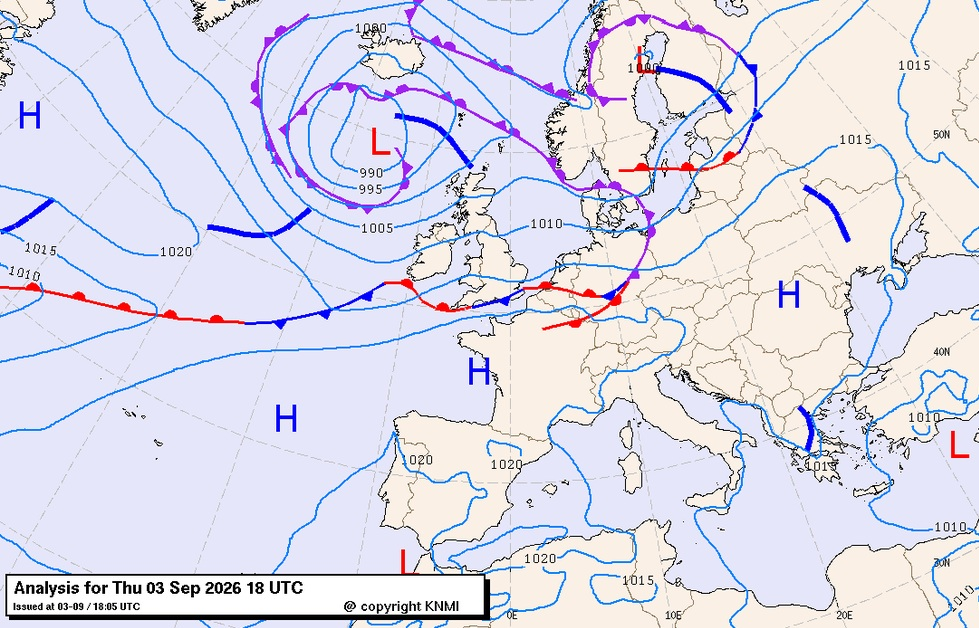
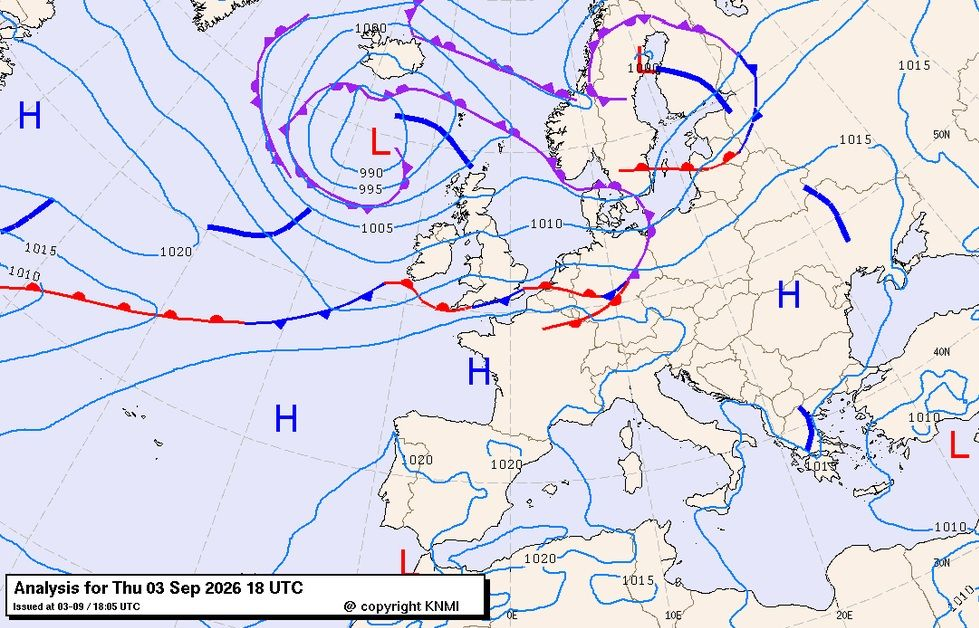
Exam image loading improvements

diff --git a/templates/exam.html b/templates/exam.html
@@ -47,7 +47,7 @@
 
                             {% if question.image_url %}
                                 <div class="question-image">
-                                    <img src="{{ question.image_url }}" alt="{{ t('Vraagafbeelding') }}" style="max-width: 100%; height: auto; margin: 10px 0;">
+                                    <img src="{{ question.image_url }}" loading="lazy" decoding="async" alt="{{ t('Vraagafbeelding') }}" style="max-width: 100%; height: auto; margin: 10px 0;">
                                 </div>
                             {% endif %}
 

diff --git a/templates/result.html b/templates/result.html
@@ -53,7 +53,7 @@
 
                 {% if result.image_url %}
                     <div class="result-image">
-                        <img src="{{ result.image_url }}" alt="{{ t('Vraagafbeelding') }}" style="max-width: 100%; height: auto; margin: 10px 0;">
+                        <img src="{{ result.image_url }}" loading="lazy" decoding="async" alt="{{ t('Vraagafbeelding') }}" style="max-width: 100%; height: auto; margin: 10px 0;">
                     </div>
                 {% endif %}
 

diff --git a/app.py b/app.py
@@ -1081,16 +1081,16 @@ def get_question_image_url(image_link):
     if normalized.startswith("/"):
         if normalized.startswith("/static/"):
             return normalized
-        return url_for("static", filename=normalized.lstrip("/"))
+        return asset_url(normalized.lstrip("/"))
 
     if normalized.startswith("static/"):
-        return url_for("static", filename=normalized.replace("static/", "", 1))
+        return asset_url(normalized.replace("static/", "", 1))
 
     if normalized.startswith("./"):
-        return url_for("static", filename=normalized.lstrip("./"))
+        return asset_url(normalized.lstrip("./"))
 
     if normalized.startswith("images/") or normalized.startswith("question_images/"):
-        return url_for("static", filename=normalized)
+        return asset_url(normalized)
 
     return None
 
